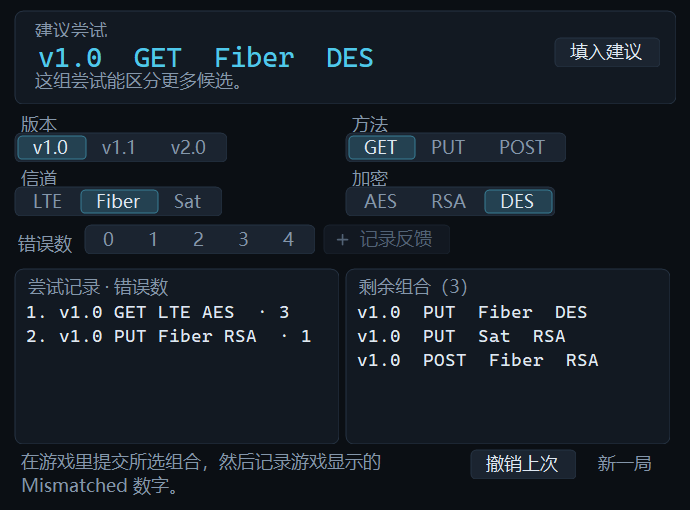
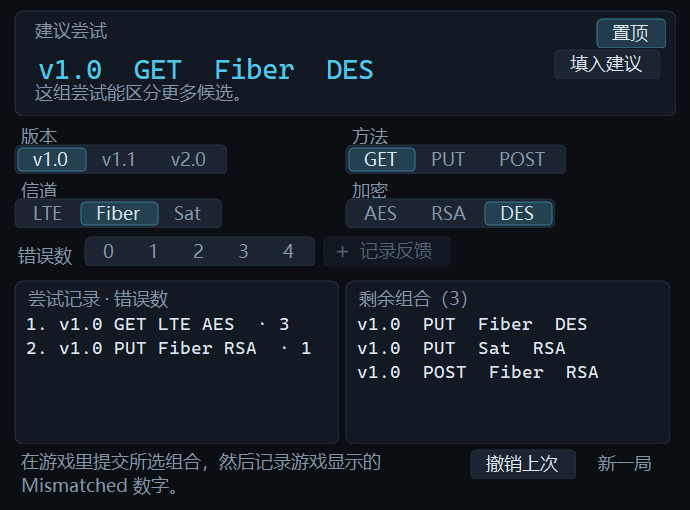
Enable Terminal always-on-top by default for v1.0.7
## English

- Terminal Intrusion stays on top by default when opened. Click **Keep on top** to turn it off, and click again to turn it back on.
- Updated the English and Simplified Chinese README instructions and screenshots.

## 简体中文

- 终端入侵助手打开时默认置顶。点击右上角的「置顶」可关闭，再点一次可恢复。
- 更新了 README 的中英文说明和截图。

diff --git a/src/TerminalPuzzleWindow.cs b/src/TerminalPuzzleWindow.cs
@@ -15,6 +15,7 @@ namespace GlyphFinder
         private readonly Label[] fieldLabels = new Label[TerminalPuzzle.FieldCount];
         private readonly Segmented[] fields = new Segmented[TerminalPuzzle.FieldCount];
         private readonly Segmented mismatch = new Segmented { Items = new[] { "0", "1", "2", "3", "4" } };
+        private readonly FlatButton onTop = new FlatButton { Kind = ButtonKind.Ghost, Checked = true, Margin = Padding.Empty };
         private readonly FlatButton useSuggestion = new FlatButton();
         private readonly FlatButton record = new FlatButton { Kind = ButtonKind.Primary, Icon = ButtonGlyph.Plus };
         private readonly FlatButton undo = new FlatButton(), reset = new FlatButton { Kind = ButtonKind.Ghost };
@@ -34,13 +35,14 @@ namespace GlyphFinder
             ClientSize = new Size(690, 510);
             MinimumSize = new Size(670, 530);
             StartPosition = FormStartPosition.Manual;
+            TopMost = onTop.Checked;
 
             var layout = new TableLayoutPanel
             {
                 Dock = DockStyle.Fill, ColumnCount = 1, RowCount = 5, Padding = new Padding(14, 10, 14, 10)
             };
             layout.ColumnStyles.Add(new ColumnStyle(SizeType.Percent, 100));
-            layout.RowStyles.Add(new RowStyle(SizeType.Absolute, 102));
+            layout.RowStyles.Add(new RowStyle(SizeType.Absolute, 114));
             layout.RowStyles.Add(new RowStyle(SizeType.Absolute, 112));
             layout.RowStyles.Add(new RowStyle(SizeType.Absolute, 44));
             layout.RowStyles.Add(new RowStyle(SizeType.Percent, 100));
@@ -51,13 +53,15 @@ namespace GlyphFinder
             var suggested = new TableLayoutPanel { Dock = DockStyle.Fill, ColumnCount = 2, RowCount = 3 };
             suggested.ColumnStyles.Add(new ColumnStyle(SizeType.Percent, 100));
             suggested.ColumnStyles.Add(new ColumnStyle(SizeType.AutoSize));
-            suggested.RowStyles.Add(new RowStyle(SizeType.Absolute, 19));
+            suggested.RowStyles.Add(new RowStyle(SizeType.Absolute, 31));
             suggested.RowStyles.Add(new RowStyle(SizeType.Absolute, 31));
             suggested.RowStyles.Add(new RowStyle(SizeType.Percent, 100));
             recommendation.Font = largeMono;
             recommendation.ForeColor = Palette.Primary;
+            onTop.Anchor = AnchorStyles.Right;
             useSuggestion.Anchor = AnchorStyles.Right;
             suggested.Controls.Add(recommendationTitle, 0, 0);
+            suggested.Controls.Add(onTop, 1, 0);
             suggested.Controls.Add(recommendation, 0, 1);
             suggested.Controls.Add(useSuggestion, 1, 1);
             suggested.Controls.Add(guidance, 0, 2);
@@ -110,6 +114,7 @@ namespace GlyphFinder
             layout.Controls.Add(footer, 0, 4);
             AcceptButton = record;
 
+            onTop.Click += delegate { onTop.Checked = TopMost = !TopMost; };
             useSuggestion.Click += delegate { SetGuess(puzzle.Recommend()); mismatch.Focus(); };
             mismatch.SelectedIndexChanged += delegate { record.Enabled = !puzzle.Solved && mismatch.SelectedIndex >= 0; };
             record.Click += delegate
@@ -147,6 +152,7 @@ namespace GlyphFinder
             string[] names = language.Text("版本|方法|信道|加密", "Version|Method|Channel|Cipher").Split('|');
             for (int i = 0; i < fields.Length; i++) fields[i].AccessibleName = fieldLabels[i].Text = names[i];
             mismatch.AccessibleName = mismatchLabel.Text = language.Text("错误数", "Mismatched");
+            onTop.Text = language.Text("置顶", "Keep on top");
             useSuggestion.Text = language.Text("填入建议", "Use suggestion");
             record.Text = language.Text("记录反馈", "Record result");
             undo.Text = language.Text("撤销上次", "Undo");

diff --git a/tests/TestChecks.cs b/tests/TestChecks.cs
@@ -486,6 +486,11 @@ internal static class TestChecks
             var mismatch = Field<Segmented>(window, "mismatch");
             var record = Field<FlatButton>(window, "record");
             var reset = Field<FlatButton>(window, "reset");
+            var onTop = Field<FlatButton>(window, "onTop");
+            Require(window.TopMost && onTop.Checked && onTop.Text == "Keep on top" &&
+                onTop.Parent.ClientRectangle.Contains(onTop.Bounds), "Terminal opens on top with a visible checked button");
+            onTop.PerformClick();
+            Require(!window.TopMost && !onTop.Checked, "the Terminal button disables always-on-top");
             Require(reset.Parent.ClientRectangle.Contains(reset.Bounds), "English terminal controls fit at the minimum width");
             Field<FlatButton>(window, "undo").PerformClick();
             Require(example.Trials.Count == 1 && mismatch.SelectedIndex == 1 && record.Enabled, "undo refills the removed trial for correction");
@@ -496,6 +501,9 @@ internal static class TestChecks
             Application.DoEvents();
             SaveWindow(window, Path.Combine(output, "ui-terminal-preview.png"));
             Require(window.Text == "终端入侵助手" && example.Trials.Count == 2, "language switching preserves the terminal round");
+            Require(onTop.Text == "置顶" && !window.TopMost && !onTop.Checked, "language switching preserves the Terminal pin state");
+            onTop.PerformClick();
+            Require(window.TopMost && onTop.Checked, "the Terminal button restores always-on-top");
             Require(reset.Parent.ClientRectangle.Contains(reset.Bounds),
                 "translated terminal controls fit (" + reset.Bounds + " inside " + reset.Parent.ClientRectangle + ")");
             reset.PerformClick();

diff --git a/src/Program.cs b/src/Program.cs
@@ -25,7 +25,7 @@ namespace GlyphFinder
     {
         internal const string GameName = "ICE WALL BREAK";
         internal const string ProductName = GameName + " Finder";
-        internal const string ReleaseVersion = "1.0.6";
+        internal const string ReleaseVersion = "1.0.7";
 
         [STAThread]
         private static void Main(string[] args)

diff --git a/README.md b/README.md
@@ -8,7 +8,7 @@ Tired of squinting at ICE WALL BREAK during your daily tasks on [cor3.gg](https:
 
 ## Quick start
 
-1. Run `ICE-WALL-BREAK-Finder-v1.0.6.exe`.
+1. Run `ICE-WALL-BREAK-Finder-v1.0.7.exe`.
 2. In the File Decryption minigame, choose **Select**. Frame the target pattern area on the left, then the entire triangular board on the right.
 3. Keep both areas visible. A yellow outline marks a unique full match. Blue outlines mark the current leading candidates.
 
@@ -17,7 +17,7 @@ Tired of squinting at ICE WALL BREAK during your daily tasks on [cor3.gg](https:
 - **ICE WALL BREAK** highlights candidate positions as tiles appear. The scan interval defaults to 100 ms.
 - **Job Guide**. Choose **Import from screenshot** and frame one or more stacked, expanded job cards with their titles and both columns. The list reports added, duplicate, and incomplete cards. Job types are color-coded, with red for removals and green for downloads. You can also enter jobs manually, mark them done, and copy a summary grouped by server. The round is cleared when you exit.
 - **Daily Tasks** reads all rows of a pulse signal and decodes Morse or Binary. Log Integrity checks each line and lists every detected error. You can review the recognized text before using it.
-- **Terminal Intrusion**. Open the blue **Terminal** button, select the combination you tried, and record the game's `Mismatched` count. The helper shows the remaining combinations and suggests the next guess.
+- **Terminal Intrusion**. Open the blue **Terminal** button, select the combination you tried, and record the game's `Mismatched` count. The helper shows the remaining combinations and suggests the next guess. The window stays on top by default. Click **Keep on top** to toggle it.
 
 If the app reports a missing recognition language, go to **Settings → Time & language → Language & region** and add **English (United States)**.
 
@@ -59,7 +59,7 @@ Run `.\build.ps1` in PowerShell on Windows. The script runs the checks and puts 
 
 ### 快速开始
 
-1. 运行 `ICE-WALL-BREAK-Finder-v1.0.6.exe`。
+1. 运行 `ICE-WALL-BREAK-Finder-v1.0.7.exe`。
 2. 进入文件解密小游戏，点 **框选**，先圈住左侧目标图形显示区，再圈住右侧整个三角棋盘。
 3. 保持两块区域可见。黄框表示唯一的全匹配，蓝框表示当前领先的候选位置。
 
@@ -68,7 +68,7 @@ Run `.\build.ps1` in PowerShell on Windows. The script runs the checks and puts 
 - **ICE WALL BREAK** 随揭格进度自动更新候选位置，默认每 100 ms 扫描一次。
 - **工作手册**。点 **截图导入任务**，一次框选一张或多张上下排列的展开任务卡，包含标题和左右两栏。导入后显示新增、重复及信息不全的数量。工作类型用颜色区分，删除和清理为红色，下载为绿色。也可手动添加、勾选完成并按服务器复制汇总，退出软件后清空本轮记录。
 - **每日任务** 支持读取多行信号并解码 Morse 或 Binary，也能逐行检查日志并列出同一行的多个错误。截图识别的文字可在使用前核对。
-- **终端入侵**。点蓝色的「终端入侵」按钮，选好在游戏里提交过的四项参数，再记录游戏返回的 `Mismatched` 数字。助手会显示剩余组合并推荐下一次尝试。
+- **终端入侵**。点蓝色的「终端入侵」按钮，选好在游戏里提交过的四项参数，再记录游戏返回的 `Mismatched` 数字。助手会显示剩余组合并推荐下一次尝试。窗口默认置顶，点右上角的「置顶」按钮即可切换。
 
 如果软件提示缺少识别语言，到 **设置 → 时间和语言 → 语言和区域**添加 **英语（美国）**。
 
